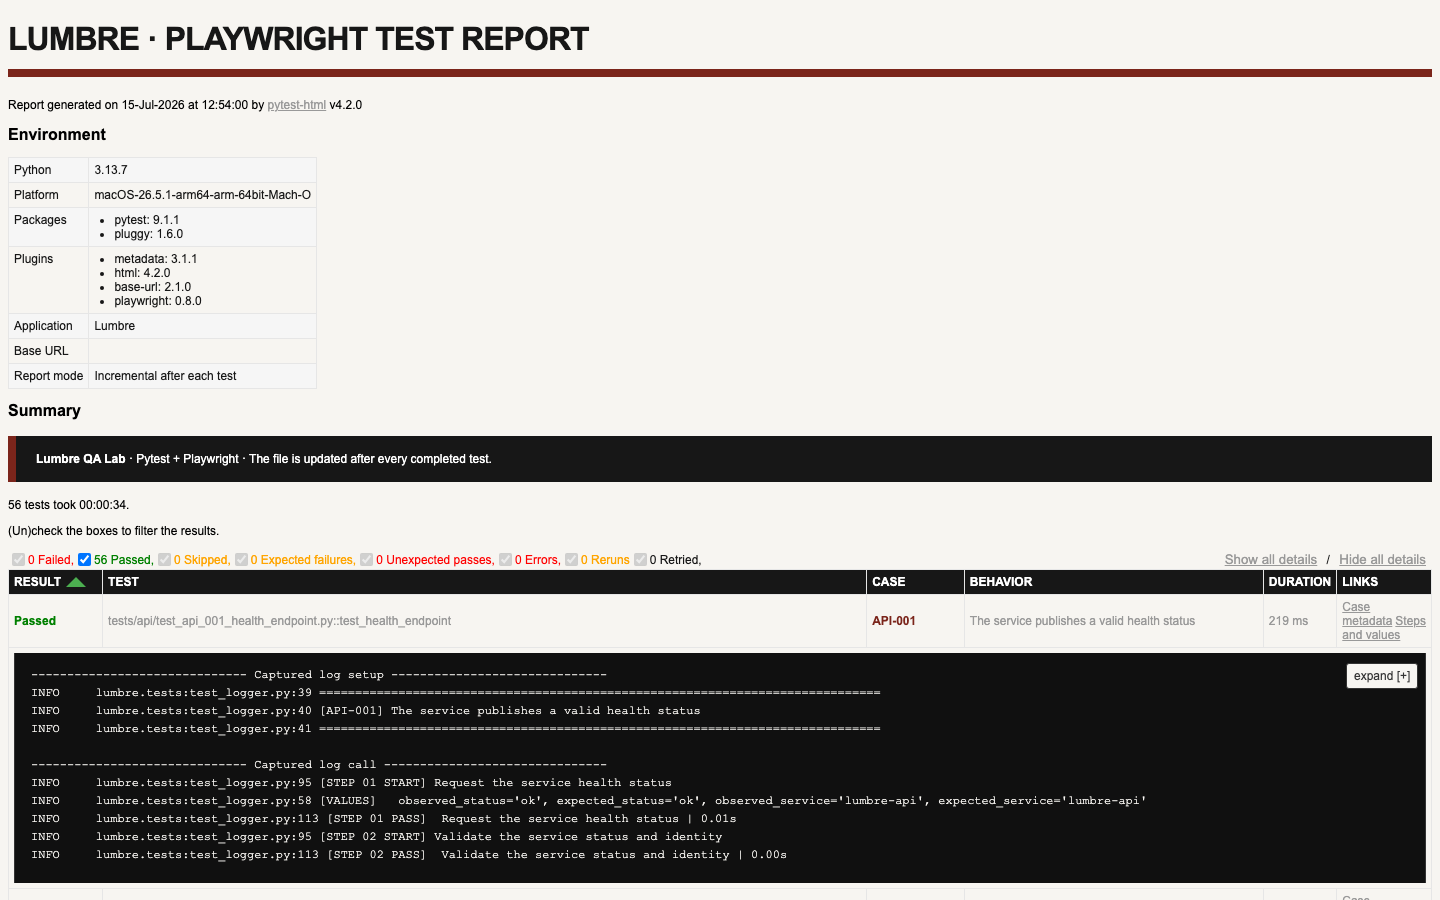
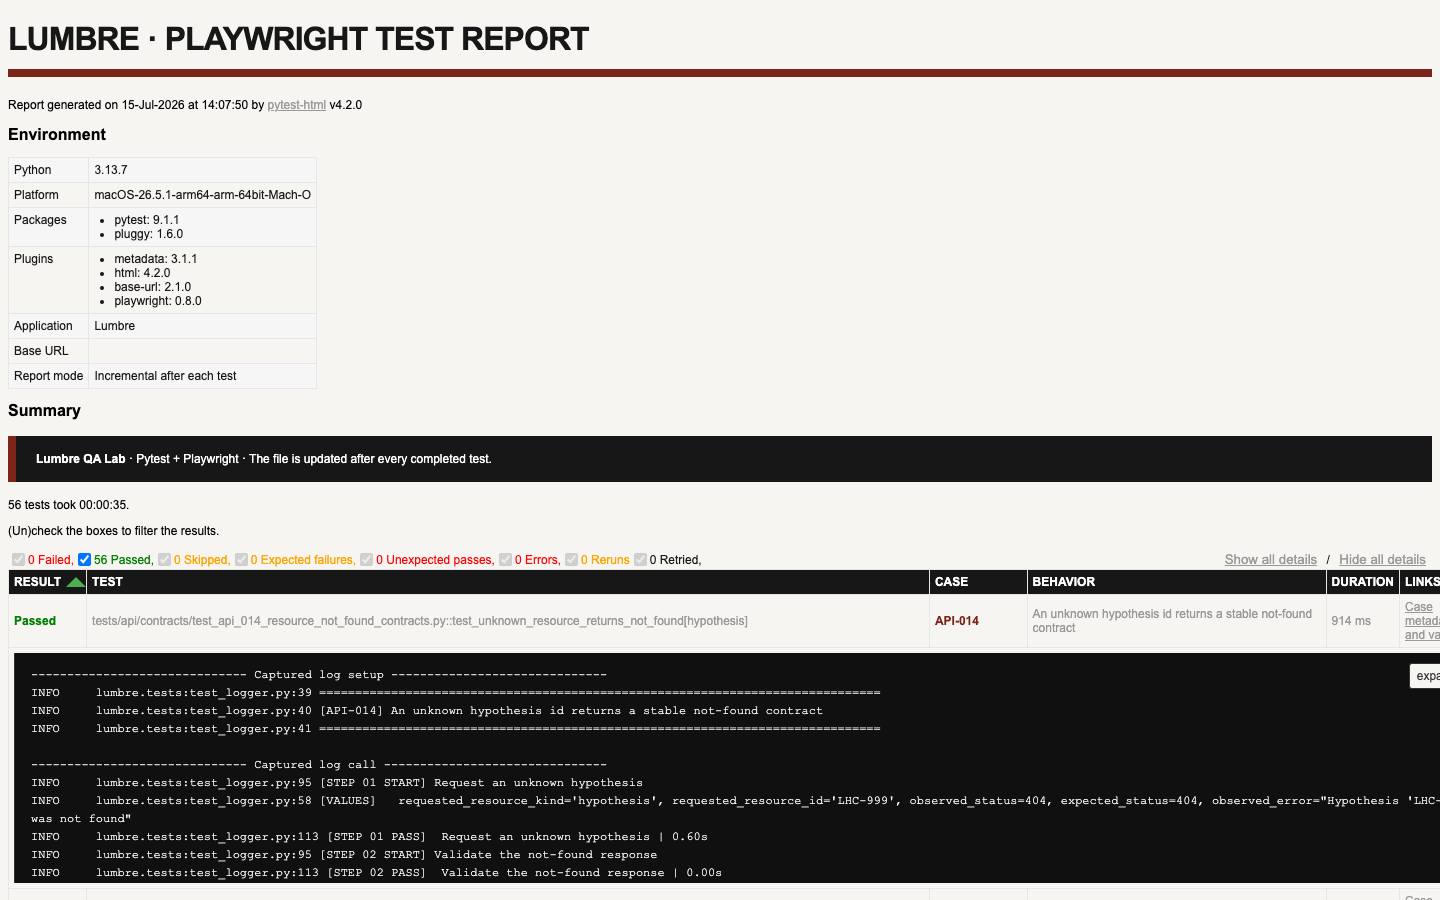
refactor(tests): organize suites by domain

diff --git a/docs/ARCHITECTURE.md b/docs/ARCHITECTURE.md
@@ -59,6 +59,21 @@ the reporting lifecycle.
 | Reporting | `framework/reporting/` | Attach metadata, logs, screenshots, URLs, and traces |
 | Local orchestration | `scripts/` | Start services, isolate data, invoke Pytest, archive reports |
 
+Tests are organized first by execution layer and then by functional ownership:
+
+```text
+tests/
+├── api/
+│   ├── system, recipes, products, membership, ingredients, hypotheses
+│   └── contracts
+└── ui/
+    ├── home, recipes, membership, commerce, events, fire_planner
+    └── ingredient_lab
+```
+
+Execution categories such as smoke, regression, and cross-browser remain
+Pytest markers rather than directories because they cut across domains.
+
 ### Dependency direction
 
 ```mermaid

diff --git a/test-framework/README.md b/test-framework/README.md
@@ -41,8 +41,14 @@ test-framework/
 │   ├── reporting/              Steps, evidence, and pytest-html hooks
 │   └── config.py               Environment settings
 ├── tests/
-│   ├── api/                    API-001 through API-020
-│   ├── ui/                     UI-001 through UI-028, ERR-001, BROWSER-001
+│   ├── api/                    Domain folders for API-001 through API-020
+│   │   ├── contracts/          Equivalent cross-domain contracts
+│   │   ├── hypotheses/         Validation, deduplication, and persistence
+│   │   └── ...                 Ingredients, membership, products, recipes, system
+│   ├── ui/                     Domain folders for UI, ERR, and BROWSER cases
+│   │   ├── ingredient_lab/     Laboratory and technical-sheet workflows
+│   │   ├── membership/         Form, keyboard, request, and recovery behavior
+│   │   └── ...                 Commerce, events, fire planner, home, recipes
 │   └── conftest.py             Fixtures and lifecycle
 ├── templates/                  Learning scaffolds
 └── pyproject.toml              Dependencies and Pytest configuration
@@ -110,7 +116,7 @@ Quote a parameterized node ID in zsh:
 
 ```bash
 ./scripts/test-local.sh -q \
-  'tests/ui/test_ui_011_membership_modal_closes.py::test_membership_modal_closes[chromium-close-button]'
+  'tests/ui/membership/test_ui_011_membership_modal_closes.py::test_membership_modal_closes[chromium-close-button]'
 ```
 
 ## Reporting and diagnostics

diff --git a/README.md b/README.md
@@ -208,7 +208,7 @@ Useful focused commands:
 
 # One case file
 ./scripts/test-local.sh -q \
-  tests/ui/test_ui_018_existing_formula_reuses_hypothesis.py
+  tests/ui/ingredient_lab/test_ui_018_existing_formula_reuses_hypothesis.py
 ```
 
 Run static quality checks: